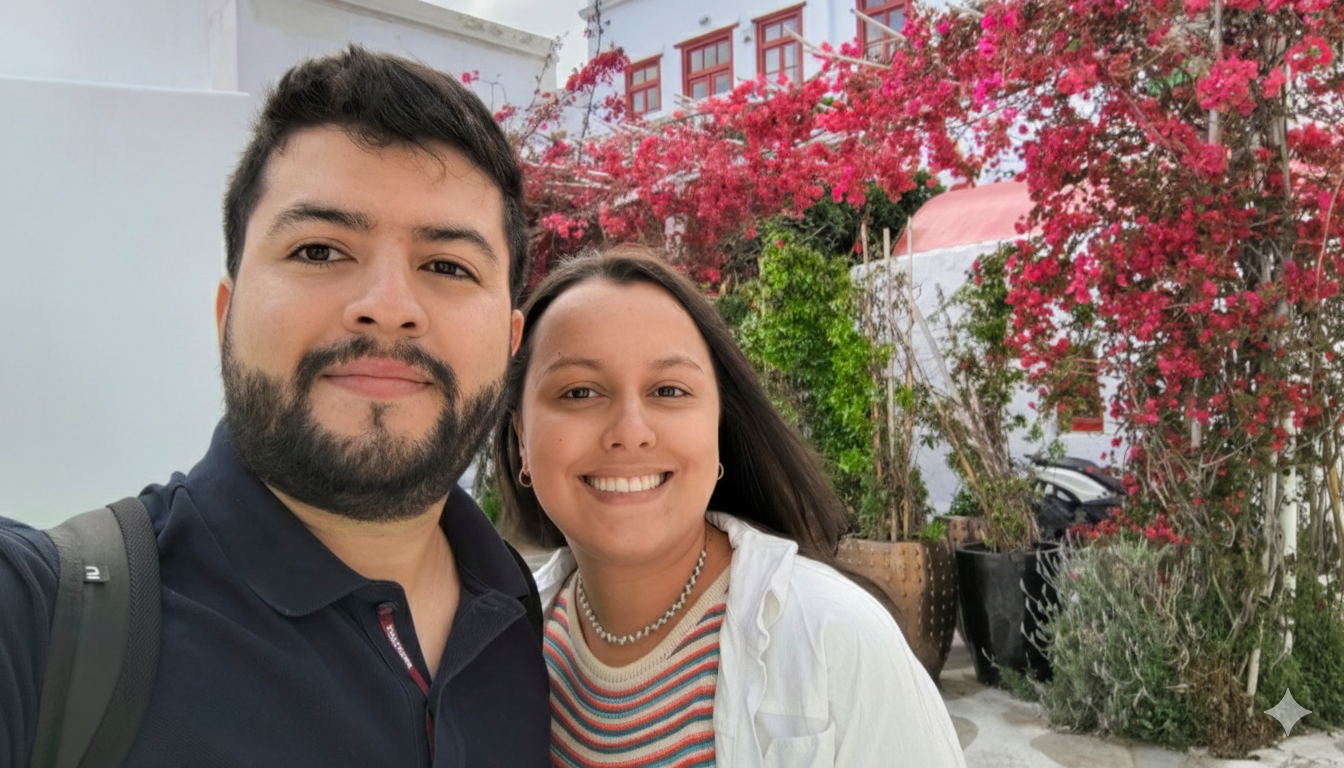
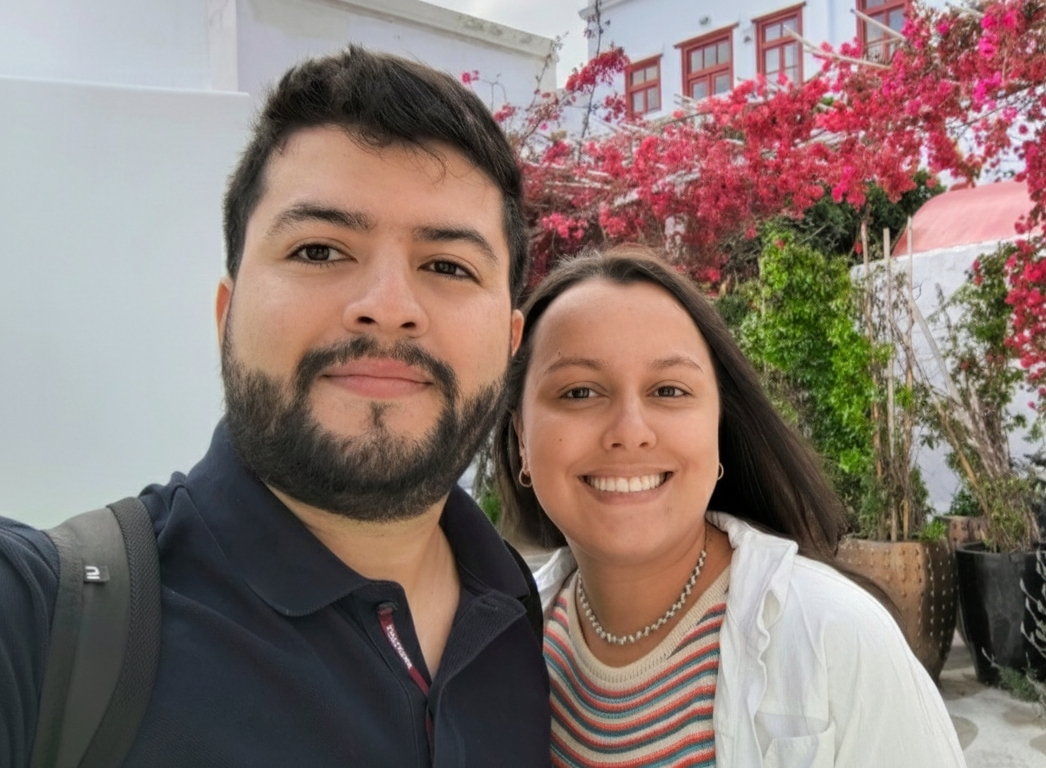
cambios 4

diff --git a/index.html b/index.html
@@ -6,8 +6,8 @@
 <meta property="og:type" content="website">
 <meta property="og:url" content="https://jupjaramilloca.github.io/Matrimonio_Juan_-_Dani/">
 
-<meta property="og:image" content="https://jupjaramilloca.github.io/Matrimonio_Juan_-_Dani/share.png">
-<meta property="og:image:secure_url" content="https://jupjaramilloca.github.io/Matrimonio_Juan_-_Dani/share.png">
+<meta property="og:image" content="https://jupjaramilloca.github.io/Matrimonio_Juan_-_Dani/final-boda.png?v=1">
+<meta property="og:image:secure_url" content="https://jupjaramilloca.github.io/Matrimonio_Juan_-_Dani/final-boda.png?v=1">
 <meta property="og:image:width" content="1200">
 <meta property="og:image:height" content="630">
 <meta property="og:image:type" content="image/png">
